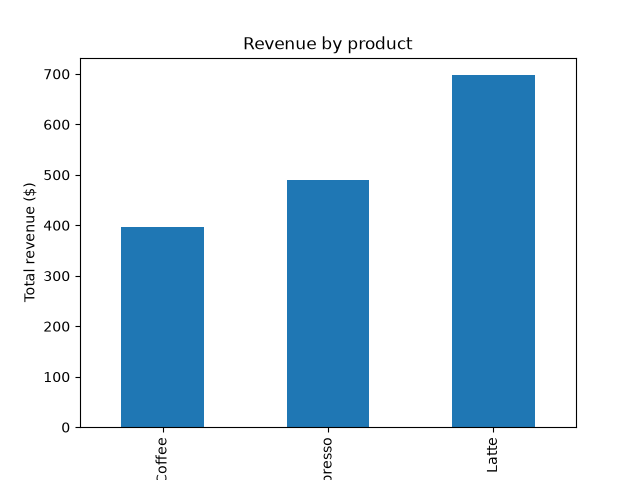
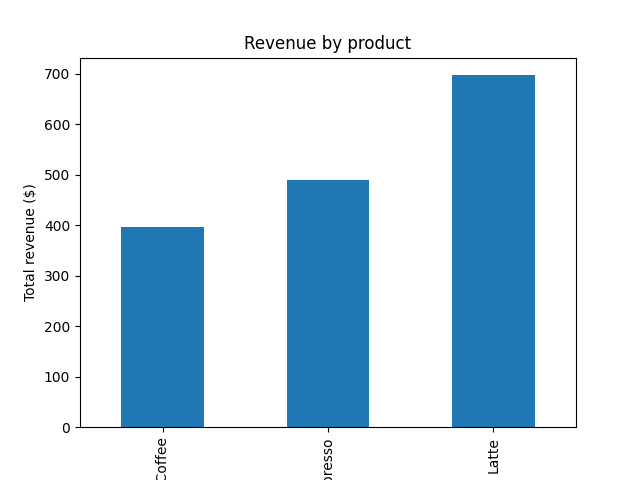
emoving redundant Folder

diff --git a/src/run_analysis.py b/src/run_analysis.py
@@ -9,7 +9,7 @@ import pandas as pd
 
 PROJECT_ROOT = Path(__file__).resolve().parents[1]
 DATA = PROJECT_ROOT / "data" / "raw" / "coffee_sales.csv"
-OUTDIR = PROJECT_ROOT / "output"
+OUTDIR = PROJECT_ROOT / "analysis"
 OUTDIR.mkdir(exist_ok=True)
 
 df = pd.read_csv(DATA)
